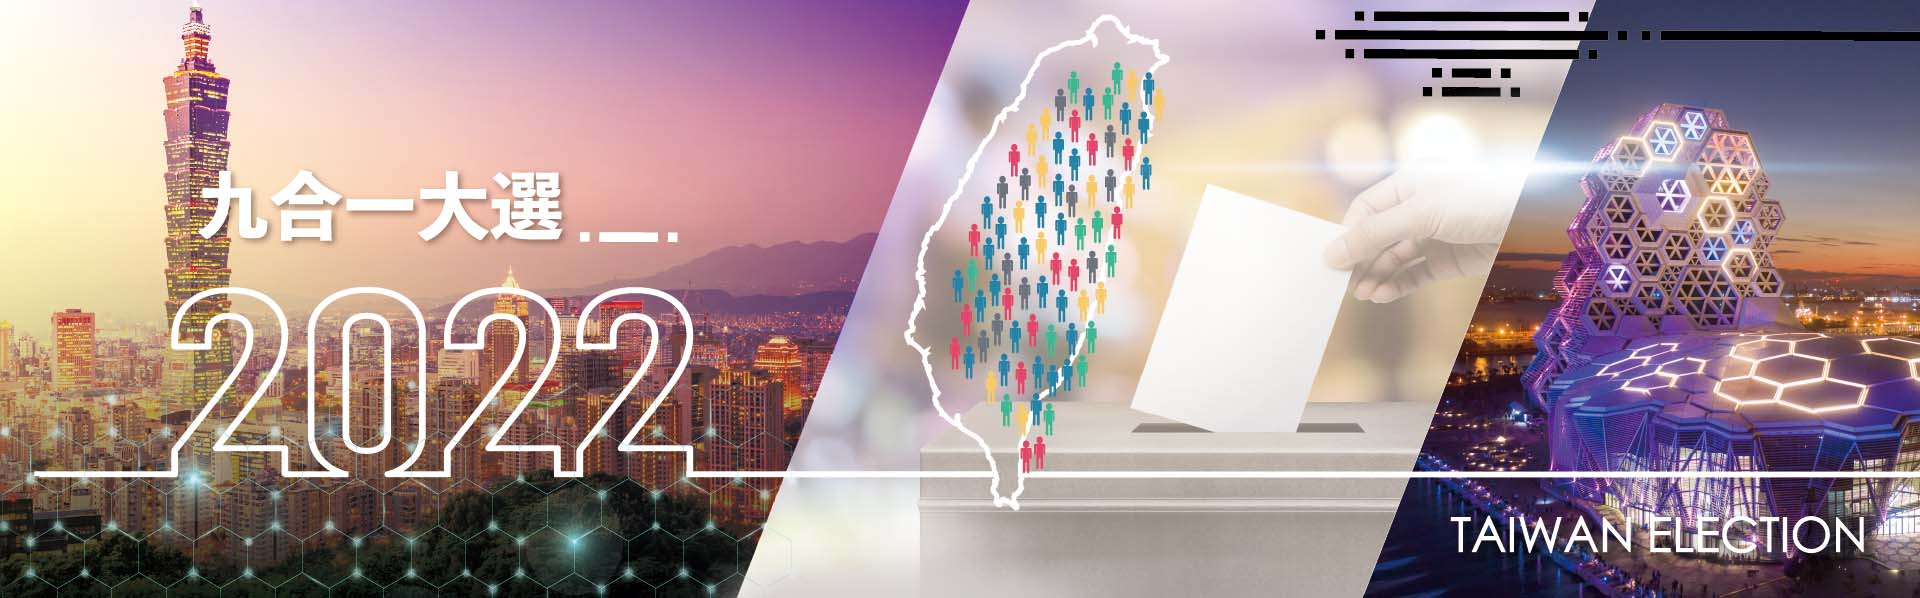
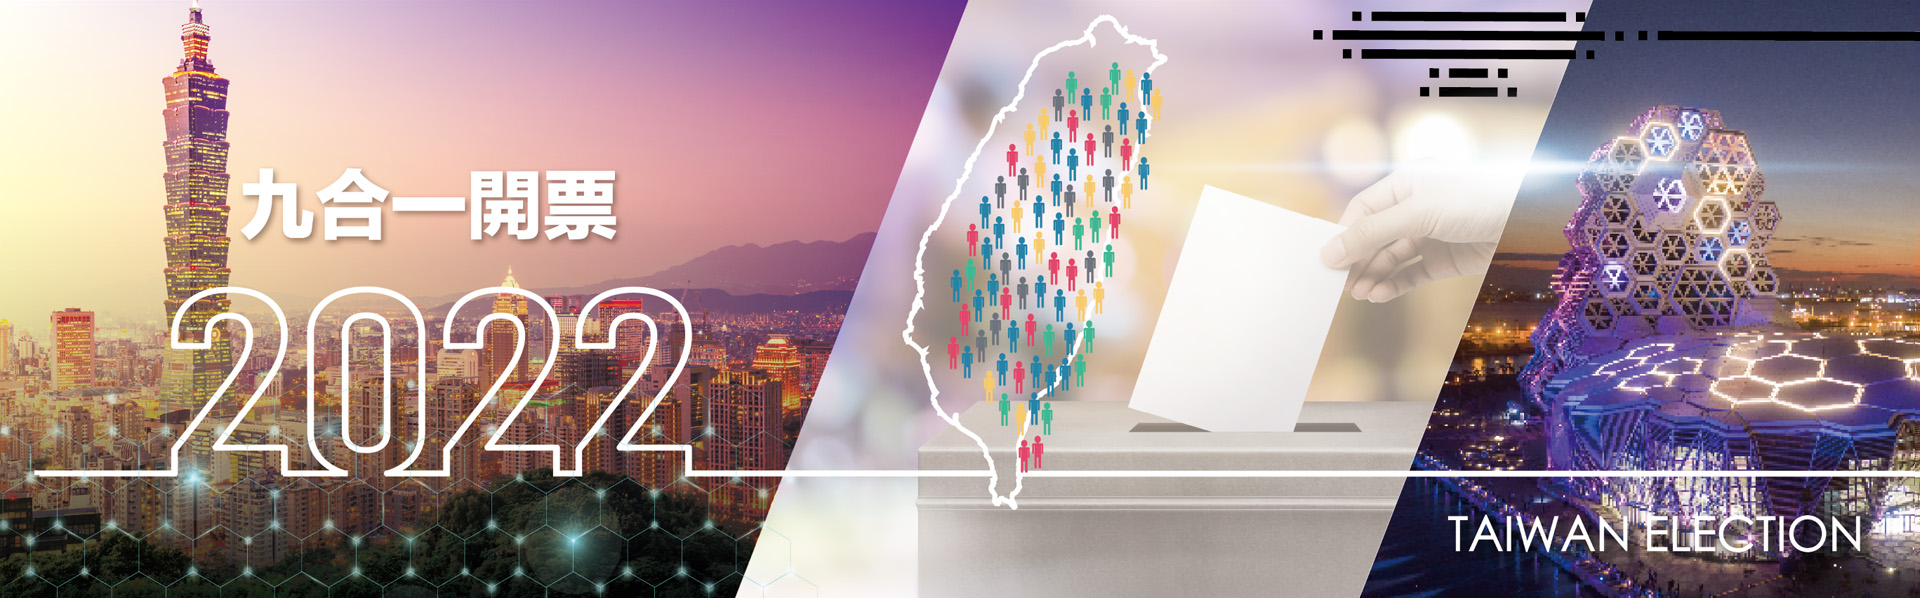
更新

diff --git a/js/countUp.js b/js/countUp.js
@@ -1,0 +1,244 @@
+/*
+	countUp.js
+	by @inorganik
+*/
+
+// target = id of html element or var of previously selected html element where counting occurs
+// startVal = the value you want to begin at
+// endVal = the value you want to arrive at
+// decimals = number of decimal places, default 0
+// duration = duration of animation in seconds, default 2
+// options = optional object of options (see below)
+
+var CountUp = function(target, startVal, endVal, decimals, duration, options) {
+
+	var self = this;
+	self.version = function () { return '1.9.3'; };
+	
+	// default options
+	self.options = {
+		useEasing: true, // toggle easing
+		useGrouping: true, // 1,000,000 vs 1000000
+		separator: ',', // character to use as a separator
+		decimal: '.', // character to use as a decimal
+		easingFn: easeOutExpo, // optional custom easing function, default is Robert Penner's easeOutExpo
+		formattingFn: formatNumber, // optional custom formatting function, default is formatNumber above
+		prefix: '', // optional text before the result
+		suffix: '', // optional text after the result
+		numerals: [] // optionally pass an array of custom numerals for 0-9
+	};
+
+	// extend default options with passed options object
+	if (options && typeof options === 'object') {
+		for (var key in self.options) {
+			if (options.hasOwnProperty(key) && options[key] !== null) {
+				self.options[key] = options[key];
+			}
+		}
+	}
+
+	if (self.options.separator === '') {
+		self.options.useGrouping = false;
+	}
+	else {
+		// ensure the separator is a string (formatNumber assumes this)
+		self.options.separator = '' + self.options.separator;
+	}
+
+	// make sure requestAnimationFrame and cancelAnimationFrame are defined
+	// polyfill for browsers without native support
+	// by Opera engineer Erik Möller
+	var lastTime = 0;
+	var vendors = ['webkit', 'moz', 'ms', 'o'];
+	for(var x = 0; x < vendors.length && !window.requestAnimationFrame; ++x) {
+		window.requestAnimationFrame = window[vendors[x]+'RequestAnimationFrame'];
+		window.cancelAnimationFrame = window[vendors[x]+'CancelAnimationFrame'] || window[vendors[x]+'CancelRequestAnimationFrame'];
+	}
+	if (!window.requestAnimationFrame) {
+		window.requestAnimationFrame = function(callback, element) {
+			var currTime = new Date().getTime();
+			var timeToCall = Math.max(0, 16 - (currTime - lastTime));
+			var id = window.setTimeout(function() { callback(currTime + timeToCall); }, timeToCall);
+			lastTime = currTime + timeToCall;
+			return id;
+		};
+	}
+	if (!window.cancelAnimationFrame) {
+		window.cancelAnimationFrame = function(id) {
+			clearTimeout(id);
+		};
+	}
+
+	function formatNumber(num) {
+		var neg = (num < 0),
+        	x, x1, x2, x3, i, len;
+		num = Math.abs(num).toFixed(self.decimals);
+		num += '';
+		x = num.split('.');
+		x1 = x[0];
+		x2 = x.length > 1 ? self.options.decimal + x[1] : '';
+		if (self.options.useGrouping) {
+			x3 = '';
+			for (i = 0, len = x1.length; i < len; ++i) {
+				if (i !== 0 && ((i % 3) === 0)) {
+					x3 = self.options.separator + x3;
+				}
+				x3 = x1[len - i - 1] + x3;
+			}
+			x1 = x3;
+		}
+		// optional numeral substitution
+		if (self.options.numerals.length) {
+			x1 = x1.replace(/[0-9]/g, function(w) {
+				return self.options.numerals[+w];
+			})
+			x2 = x2.replace(/[0-9]/g, function(w) {
+				return self.options.numerals[+w];
+			})
+		}
+		return (neg ? '-' : '') + self.options.prefix + x1 + x2 + self.options.suffix;
+	}
+	// Robert Penner's easeOutExpo
+	function easeOutExpo(t, b, c, d) {
+		return c * (-Math.pow(2, -10 * t / d) + 1) * 1024 / 1023 + b;
+	}
+	function ensureNumber(n) {
+		return (typeof n === 'number' && !isNaN(n));
+	}
+
+	self.initialize = function() { 
+		if (self.initialized) return true;
+		
+		self.error = '';
+		self.d = (typeof target === 'string') ? document.getElementById(target) : target;
+		if (!self.d) { 
+			self.error = '[CountUp] target is null or undefined'
+			return false;
+		}
+		self.startVal = Number(startVal);
+		self.endVal = Number(endVal);
+		// error checks
+		if (ensureNumber(self.startVal) && ensureNumber(self.endVal)) {
+			self.decimals = Math.max(0, decimals || 0);
+			self.dec = Math.pow(10, self.decimals);
+			self.duration = Number(duration) * 1000 || 2000;
+			self.countDown = (self.startVal > self.endVal);
+			self.frameVal = self.startVal;
+			self.initialized = true;
+			return true;
+		}
+		else {
+			self.error = '[CountUp] startVal ('+startVal+') or endVal ('+endVal+') is not a number';
+			return false;
+		}
+	};
+
+	// Print value to target
+	self.printValue = function(value) {
+		var result = self.options.formattingFn(value);
+
+		if (self.d.tagName === 'INPUT') {
+			this.d.value = result;
+		}
+		else if (self.d.tagName === 'text' || self.d.tagName === 'tspan') {
+			this.d.textContent = result;
+		}
+		else {
+			this.d.innerHTML = result;
+		}
+	};
+
+	self.count = function(timestamp) {
+
+		if (!self.startTime) { self.startTime = timestamp; }
+
+		self.timestamp = timestamp;
+		var progress = timestamp - self.startTime;
+		self.remaining = self.duration - progress;
+
+		// to ease or not to ease
+		if (self.options.useEasing) {
+			if (self.countDown) {
+				self.frameVal = self.startVal - self.options.easingFn(progress, 0, self.startVal - self.endVal, self.duration);
+			} else {
+				self.frameVal = self.options.easingFn(progress, self.startVal, self.endVal - self.startVal, self.duration);
+			}
+		} else {
+			if (self.countDown) {
+				self.frameVal = self.startVal - ((self.startVal - self.endVal) * (progress / self.duration));
+			} else {
+				self.frameVal = self.startVal + (self.endVal - self.startVal) * (progress / self.duration);
+			}
+		}
+
+		// don't go past endVal since progress can exceed duration in the last frame
+		if (self.countDown) {
+			self.frameVal = (self.frameVal < self.endVal) ? self.endVal : self.frameVal;
+		} else {
+			self.frameVal = (self.frameVal > self.endVal) ? self.endVal : self.frameVal;
+		}
+
+		// decimal
+		self.frameVal = Math.round(self.frameVal*self.dec)/self.dec;
+
+		// format and print value
+		self.printValue(self.frameVal);
+
+		// whether to continue
+		if (progress < self.duration) {
+			self.rAF = requestAnimationFrame(self.count);
+		} else {
+			if (self.callback) self.callback();
+		}
+	};
+	// start your animation
+	self.start = function(callback) {
+		if (!self.initialize()) return;
+		self.callback = callback;
+		self.rAF = requestAnimationFrame(self.count);
+	};
+	// toggles pause/resume animation
+	self.pauseResume = function() {
+		if (!self.paused) {
+			self.paused = true;
+			cancelAnimationFrame(self.rAF);
+		} else {
+			self.paused = false;
+			delete self.startTime;
+			self.duration = self.remaining;
+			self.startVal = self.frameVal;
+			requestAnimationFrame(self.count);
+		}
+	};
+	// reset to startVal so animation can be run again
+	self.reset = function() {
+		self.paused = false;
+		delete self.startTime;
+		self.initialized = false;
+		if (self.initialize()) {
+			cancelAnimationFrame(self.rAF);
+			self.printValue(self.startVal);
+		}
+	};
+	// pass a new endVal and start animation
+	self.update = function (newEndVal) {
+		if (!self.initialize()) return;
+		newEndVal = Number(newEndVal);
+		if (!ensureNumber(newEndVal)) {
+			self.error = '[CountUp] update() - new endVal is not a number: '+newEndVal;
+			return;
+		}
+		self.error = '';
+		if (newEndVal === self.frameVal) return;
+		cancelAnimationFrame(self.rAF);
+		self.paused = false;
+		delete self.startTime;
+		self.startVal = self.frameVal;
+		self.endVal = newEndVal;
+		self.countDown = (self.startVal > self.endVal);
+		self.rAF = requestAnimationFrame(self.count);
+	};
+
+	// format startVal on initialization
+	if (self.initialize()) self.printValue(self.startVal);
+};// JavaScript Document

diff --git a/ballots.html b/ballots.html
@@ -38,7 +38,7 @@
 footer{
     margin-top: 0px!important;
 }
-.taipei_pop{display:none;}
+
 </style>
 <!--本頁樣式ed-->
 <!--本頁js-->	
@@ -164,7 +164,7 @@ $(document).ready(function(){
                             $(".pop").eq(0).show();                                         
                             $('#popup').show(); 
                             $('#popup .area').html(taipei_arr[i]);
-                            $("#popup .num").each(function(j){
+                            $("#popup .pop").eq(0).find(".num").each(function(j){
                                 $(this).html('<div id=p1'+j+'>'+taipei_num[i][j][0]+'</div>');  
                                 var demo_p1 = new CountUp('p1'+j, 0,taipei_num[i][j][0], 0,1.5, options);
                                 if(!demo_p1.error){demo_p1.start();}else{console.error(demo_p1.error);}	                         
@@ -172,13 +172,17 @@ $(document).ready(function(){
                             $(this).css({opacity:0.7});
                         });                        
                 }else{
+                    $('#popup').hide();
                     $(this).mouseover(function(){ 
-                        $('#popup').hide();
-                        $(this).css({opacity:1});
+                        $('#popup').hide(); 
+                        $(".pop").hide();
+                        $(this).css({opacity:1});               
                     }); 
                 }
+
                 $(this).mouseleave(function(){
                     $('#popup').hide();
+                    $(".pop").hide();
                     $(this).css({opacity:1});
                 });
         });
@@ -200,17 +204,24 @@ $(document).ready(function(){
                         $(this).css({opacity:0.7});
                     });                        
                 }else{
+                    $('#popup').hide();
                     $(this).mouseover(function(){ 
-                        $('#popup').hide();                        
+                        $('#popup').hide(); 
+                        $(".pop").hide();
+                        $(this).css({opacity:1});               
                     }); 
                 }
                 $(this).mouseleave(function(){
                     $('#popup').hide();
+                    $(".pop").hide();
                     $(this).css({opacity:1});
                 });
         });
     }
-   
+    mapgo();
+    $(window).resize(function(){         
+        mapgo();
+    });
 
   //插入台北市區域
    for(var i=0;i<taipei_arr.length;i++){
@@ -278,12 +289,7 @@ $(document).ready(function(){
    $("#new_taipei").find(".party_area .num").each(function(i){
         $(this).html(par_arr2[i]);
    });
-   mapgo();
-    $(window).resize(function(){         
-        mapgo();  
-        $('#popup').hide();
-        $("#taipei").find("path").css({opacity:1});     
-    });
+
    //雙北市地圖資料ed
 });
 </script>
@@ -358,8 +364,8 @@ $(document).ready(function(){
             <span>倒數</span><span class="day">100</span>
         </div>
     </div>
-    <div class="head_bg pc"><img src="images/election_pc.jpg" alt="view"/></div>
-    <div class="head_bg mo"><img src="images/election_m.jpg" alt="view"/></div>
+    <div class="head_bg pc"><img src="images/election_pc2.jpg" alt="view"/></div>
+    <div class="head_bg mo"><img src="images/election_m2.jpg" alt="view"/></div>
 </header>
     <!-- 廣告欄位 -->       
     <div class="ad_box top40">

diff --git a/css/base.css b/css/base.css
@@ -1463,7 +1463,8 @@ display: none;
 .candidate .pro_box .img_box .party{width:35px;height:35px;position:absolute;z-index:1;bottom:15px;left:10px;}
 
 .candidate .pro_box .profile_box .num{
-    width:25px;height:25px;display:flex;justify-content:center;align-items:center;
+    font-size:20px;
+    width:30px;height:30px;display:flex;justify-content:center;align-items:center;
     background-color:#000;color:#fff;border-radius:360px;margin-bottom:5px;
     }
 .candidate .pro_box .profile_box .name{font-size:22px;font-weight:bold;margin-bottom:5px;}
@@ -1613,7 +1614,6 @@ display: none;
 }
 @media (max-width:767px) {  
     .mp_box .party{width:35px;height:35px;}
-    .candidate .pro_box .profile_box .num{width:25px;height:25px;}
     .candidate .councillor .city .box .open_box{display: block;} 
     .mp_box {
         width: 100%;
@@ -1983,7 +1983,7 @@ footer .logo_box li:first-child{width:80px;padding-top:0;margin-right:0;}
 }
 .ballots .party_area li{    
     display: flex;
-    font-size: 12px;
+    font-size: 14px;
     justify-content: center;  
     align-items: center;
     margin-bottom:5px;
@@ -2003,11 +2003,16 @@ footer .logo_box li:first-child{width:80px;padding-top:0;margin-right:0;}
     justify-content:space-between;  
     align-items: center;
     background-color:#2886A2;
-    padding:5px 15px;
+    border-bottom: solid 1px #ddd;
+    padding:5px 10px 5px 15px;
 }
 .ballots .two_city .city .info_box .input select{
-   padding:3px;font-size:16px;color:#2886A2;
+   font-size:16px;color:#2886A2;
    border-radius: 5px;
+
+   border: solid 1px #2886A2;
+   font-size: 14px;    
+   padding: 4px;
 }
 
 .ballots .two_city .city .info_box .input p{
@@ -2017,7 +2022,7 @@ footer .logo_box li:first-child{width:80px;padding-top:0;margin-right:0;}
 .ballots .two_city .city .info_box .table{width:60%;font-weight: bold;}
 .ballots .two_city .city .info_box .table img{width:25px;height:25px;}
 .ballots .two_city .city .info_box .table table{width:100%;font-size:14px;margin:0;}
-.ballots .two_city .city .info_box .table table td{padding:5px 10px;background:none;text-align:center;}
+.ballots .two_city .city .info_box .table table td{font-weight: normal;padding:7px 10px;background:none;text-align:center;}
 .ballots .two_city .city .info_box .table table tr{color: #fff;background-color: #6EAABC;}
 .ballots .two_city .city .info_box .table table tr:first-child{ background-color: #4693A5;}
 .ballots .two_city .city .info_box .two_city .map svg path{cursor: pointer;}
